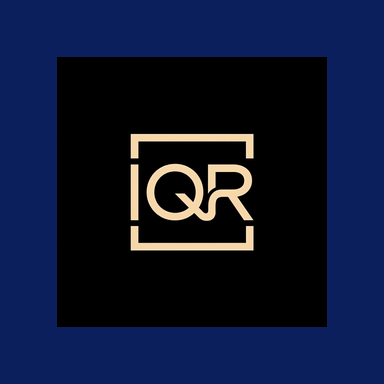
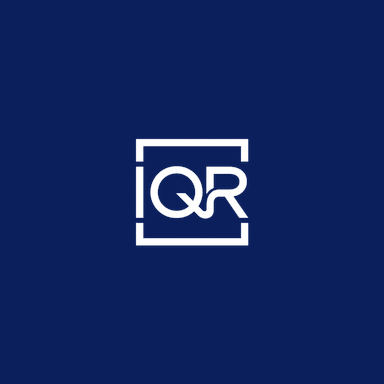
Add files via upload

diff --git a/components/IQRSite.jsx b/components/IQRSite.jsx
@@ -5,8 +5,7 @@ function ThemeToggle() {
   const [dark, setDark] = useState(true);
   useEffect(() => {
     const saved = localStorage.getItem('iqr-theme');
-    const sys = window.matchMedia('(prefers-color-scheme: dark)').matches;
-    const t = saved || (sys ? 'dark' : 'light');
+    const t = saved || 'dark';
     setDark(t === 'dark');
     document.documentElement.setAttribute('data-theme', t);
   }, []);
@@ -15,6 +14,9 @@ function ThemeToggle() {
     setDark(!dark);
     document.documentElement.setAttribute('data-theme', next);
     localStorage.setItem('iqr-theme', next);
+    // تبديل الشعار
+    const logos = document.querySelectorAll('#nav-logo, #footer-logo');
+    logos.forEach(l => { l.src = next === 'dark' ? '/logo-white.png' : '/logo-navy.png'; });
   };
   return (
     <button className="theme-toggle" onClick={toggle} title={dark?"الوضع الفاتح":"الوضع الداكن"}>
@@ -54,16 +56,25 @@ const G = `
   [data-theme="light"] #process,
   [data-theme="light"] #results,
   [data-theme="light"] #cta,
-  [data-theme="light"] footer,
-  [data-theme="light"] nav {
+  [data-theme="light"] footer {
     background: var(--bg-primary) !important;
   }
   [data-theme="light"] nav {
-    background: var(--bg-secondary) !important;
-    border-bottom: 1px solid var(--border) !important;
-    box-shadow: 0 1px 20px rgba(10,31,92,0.06) !important;
+    background: rgba(255,255,255,0.95) !important;
+    border-bottom: 1px solid rgba(10,31,92,0.1) !important;
+    box-shadow: 0 2px 24px rgba(10,31,92,0.08) !important;
+    backdrop-filter: blur(20px) !important;
   }
-  [data-theme="light"] .particle-canvas { opacity: 0.08 !important; filter: hue-rotate(180deg) !important; }
+  [data-theme="light"] .particle-canvas {
+    opacity: 0.18 !important;
+    filter: invert(1) hue-rotate(180deg) brightness(0.4) !important;
+  }
+  [data-theme="light"] h1, [data-theme="light"] h2, [data-theme="light"] h3 {
+    color: var(--text-primary) !important;
+  }
+  [data-theme="light"] .mobile-menu-btn span {
+    background: #0a1f5c !important;
+  }
 `
 
 function CursorTrail() {
@@ -290,9 +301,7 @@ function Nav() {
       background:scrolled||mobileOpen?"rgba(0,8,20,.97)":"transparent",backdropFilter:scrolled||mobileOpen?"blur(24px)":"none",
       borderBottom:scrolled||mobileOpen?"1px solid rgba(255,45,122,.1)":"none",transition:"all .4s ease",direction:"rtl"}}>
       <a href="/" style={{textDecoration:"none",display:"flex",alignItems:"center",gap:10,cursor:"none"}}>
-        <img src="/logo.png" alt="IQR" style={{height:38,width:"auto",filter:"brightness(0) invert(1) sepia(1) saturate(5) hue-rotate(290deg)",transition:"filter .3s"}}
-          onMouseEnter={e=>e.currentTarget.style.filter="brightness(0) invert(1)"}
-          onMouseLeave={e=>e.currentTarget.style.filter="brightness(0) invert(1) sepia(1) saturate(5) hue-rotate(290deg)"}/>
+        <img src="/logo-white.png" id="nav-logo" alt="IQR" style={{height:38,width:"auto",transition:"opacity .3s"}}/>
       </a>
       <div className="nav-links-wrap" style={{display:"flex",alignItems:"center",gap:8}}>
         {pageLinks.map(({h,l}) => (
@@ -822,7 +831,7 @@ function Footer() {
       <div className="footer-grid-inner" style={{maxWidth:1400,margin:"0 auto",display:"grid",gridTemplateColumns:"1.5fr 1fr 1fr 1fr",gap:60,alignItems:"start",direction:"rtl"}}>
         <div>
           <a href="/" style={{display:"block",marginBottom:16,textDecoration:"none",cursor:"none"}}>
-            <img src="/logo.png" alt="IQR" style={{height:32,width:"auto",filter:"brightness(0) invert(1) sepia(1) saturate(5) hue-rotate(290deg)"}}/>
+            <img src="/logo-white.png" id="footer-logo" alt="IQR" style={{height:32,width:"auto",transition:"opacity .3s"}}/>
           </a>
           <p style={{fontFamily:"Cairo",fontSize:13,color:"var(--text-muted)",lineHeight:1.8,marginBottom:16}}>لإدارة وتطوير المطاعم — نحول فوضى مطعمك إلى دقة هندسية ذاتية في العراق.</p>
           <div style={{display:"flex",gap:10,marginTop:8}}>

diff --git a/app/layout.js b/app/layout.js
@@ -33,10 +33,11 @@ const themeScript = `
 (function() {
   try {
     var saved = localStorage.getItem('iqr-theme');
-    var prefersDark = window.matchMedia('(prefers-color-scheme: dark)').matches;
-    var theme = saved || (prefersDark ? 'dark' : 'light');
+    var theme = saved || 'dark';
     document.documentElement.setAttribute('data-theme', theme);
-  } catch(e) {}
+  } catch(e) {
+    document.documentElement.setAttribute('data-theme', 'dark');
+  }
 })();
 `;
 
@@ -63,22 +64,22 @@ const globalStyles = `
     color-scheme: dark;
   }
   :root[data-theme="light"] {
-    --bg-primary:    #f0f3fa;
+    --bg-primary:    #f0f4fb;
     --bg-secondary:  #ffffff;
-    --bg-card:       rgba(255,255,255,0.9);
-    --bg-glass:      rgba(255,255,255,0.85);
-    --text-primary:  #0a1133;
-    --text-secondary:#4a5580;
-    --text-muted:    #9aa3be;
-    --accent:        #c0134f;
-    --accent-glow:   rgba(192,19,79,0.12);
-    --accent-soft:   rgba(192,19,79,0.06);
+    --bg-card:       rgba(255,255,255,0.95);
+    --bg-glass:      rgba(255,255,255,0.9);
+    --text-primary:  #0a1f5c;
+    --text-secondary:#2a4a8a;
+    --text-muted:    #7a96cc;
+    --accent:        #0a1f5c;
+    --accent-glow:   rgba(10,31,92,0.12);
+    --accent-soft:   rgba(10,31,92,0.06);
     --navy:          #0a1f5c;
     --navy-light:    #162a7a;
     --blue-accent:   #1a4fc4;
     --blue-rgb:      26,79,196;
     --border:        rgba(10,31,92,0.1);
-    --border-accent: rgba(192,19,79,0.2);
+    --border-accent: rgba(10,31,92,0.25);
     --success:       #0a9e5c;
     --warning:       #c07800;
     color-scheme: light;
